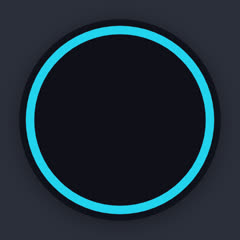
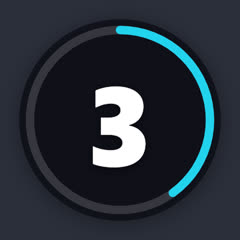
fix(creator-kit): what the live run found; docs
- the Gallery's tab row wraps (the library tabs were out of sight in a narrow pane)
- project.save over MCP copies the project's library LUTs beside it, as File > Save does
- a transition's outgoing clip no longer goes black after the cut when the clip uses its file to
  the last frame (source time clamped a 60th of a second before the end; older than the kit)
- countdown template: thumbnail time; index.json and thumbnails rebuilt
- notes.md (build + live run), goals.md, CHANGELOG, ARCHITECTURE, docs/customizing.md
cargo test: 1417 passed; --selftest OK; the five live checks of the plan pass.

Changed region(s): [[0.0875, 0.0875, 0.7292, 0.9042], [0.3792, 0.35, 0.6125, 0.7]]

diff --git a/src/ui/gallery.rs b/src/ui/gallery.rs
@@ -427,24 +427,22 @@ pub fn show(
     if state.tab == GalleryTab::Transitions {
         state.tab = GalleryTab::Looks;
     }
-    // one row that scrolls sideways when the pane is narrower than the tabs
-    egui::ScrollArea::horizontal().id_salt("gallery_tabs").show(ui, |ui| {
-        ui.horizontal(|ui| {
-            ui.spacing_mut().item_spacing.x = 4.0;
-            for tab in GalleryTab::ALL.into_iter().filter(|&t| t != GalleryTab::Transitions) {
-                if ui.selectable_label(state.lib.is_none() && state.tab == tab, tab.label()).clicked() {
-                    state.tab = tab;
-                    state.lib = None;
-                    settings.gallery_tab = tab.name().to_string();
-                }
+    // the tabs wrap onto a second row in a narrow pane (a sideways-scrolling row hid the library tabs)
+    ui.horizontal_wrapped(|ui| {
+        ui.spacing_mut().item_spacing.x = 4.0;
+        for tab in GalleryTab::ALL.into_iter().filter(|&t| t != GalleryTab::Transitions) {
+            if ui.selectable_label(state.lib.is_none() && state.tab == tab, tab.label()).clicked() {
+                state.tab = tab;
+                state.lib = None;
+                settings.gallery_tab = tab.name().to_string();
             }
-            // ---- ws:online-library ----
-            for (kind, label) in LIB_TABS {
-                if ui.selectable_label(state.lib == Some(kind), label).clicked() {
-                    state.lib = Some(kind);
-                }
+        }
+        // ---- ws:online-library ----
+        for (kind, label) in LIB_TABS {
+            if ui.selectable_label(state.lib == Some(kind), label).clicked() {
+                state.lib = Some(kind);
             }
-        });
+        }
     });
     ui.separator();
     // ---- ws:online-library ---- a library tab, or the library's LUTs above the Luts tab's folders

diff --git a/src/ui/app/tools_timeline.rs b/src/ui/app/tools_timeline.rs
@@ -70,6 +70,11 @@ pub(super) fn dispatch(app: &mut App, name: &str, args: &Value) -> Option<Result
                     None => app.project_path.clone().ok_or("no project file yet - pass a path")?,
                 };
                 app.project.save(&path).map_err(|e| e.to_string())?;
+                // ws:online-library: as File > Save does - library LUTs the project uses go beside it
+                crate::engine::lut::set_project(Some(&path));
+                if let Ok(v) = serde_json::to_value(&app.project) {
+                    let _ = crate::engine::lut::copy_beside_project(&v, &path);
+                }
                 app.project_path = Some(path.clone());
                 app.dirty = false;
                 Ok(json!({"ok": true, "path": path.to_string_lossy()}))

diff --git a/src/playback.rs b/src/playback.rs
@@ -1911,7 +1911,10 @@ fn decode_one(
 /// A source time kept inside the source (`src_duration` 0 = unknown: only kept off negatives).
 fn clip_src(src_t: f64, src_duration: f64) -> f64 {
     if src_duration > 0.0 {
-        src_t.clamp(0.0, (src_duration - 1e-4).max(0.0))
+        // a 60th of a second before the end: a time inside the last 0.1 ms came back with no frame at
+        // all (the outgoing clip of every transition went black after the cut when it used its file
+        // to the last frame). ponytail: the last frame's own time, once the decoders report it.
+        src_t.clamp(0.0, (src_duration - 1.0 / 60.0).max(0.0))
     } else {
         src_t.max(0.0)
     }

diff --git a/notes.md b/notes.md
@@ -7,6 +7,52 @@ Newest at the top. No required format — a bullet or a short paragraph is fine.
 
 ---
 
+- **creator-kit build (2026-11-11): how it was run, what the live run found.**
+  Order: spike (entry below) -> `library/README.md` (formats) -> wave 0 by the lead (marker sections,
+  registered stub modules with the cross-workstream signatures, the installed-library core, shader
+  header parsing + wrappers, a real-driver test over `library/**/*.glsl`; `plans/creator-kit/
+  engine-contract.md` is the shared brief) -> four engine agents in the SAME worktree on disjoint files
+  (html-layer, shader-library, skills, online-library; `cargo check` allowed, others' errors ignored)
+  next to twelve content agents writing only under `library/`. What made the content good: every
+  author could LOOK at its work with the app's own renderer - a preview tool built from the spike for
+  HTML / icons, and the built test binary re-run with `SE_ONLY` / `SE_SHOTS` for shaders (files are read
+  at run time, so the binary need not be rebuilt). Merge: 2 test failures, both from the lead's own
+  integration edits; then `cargo test` 1417 passed, `--selftest` OK.
+  **Live, release-fast, scratch profile, second monitor, over MCP** (all five checks of the plan):
+  (1) `html.create` with the library Subscribe button -> over video with clean alpha at its natural
+  size; `html.set` label + accent -> re-rendered; the exported frame shows it. (2) "Add a lower third
+  with my name": the assistant found `html/lower-third-clean` with `library.list`, installed and
+  applied it, set name / role with `html.set`, looked with `html.check`; 24 s. (3) the `/` list
+  filters as typed, the Skills tab lists built-ins and "Yours"; `/create-skill …` wrote
+  `skills\punch-words.md` in 32 s; `/captions` ran as a skill and stopped to ask before the 142 MB
+  speech model download (not installed in the scratch profile, so captioning itself was not run).
+  (4) a cloud transition clicked in the Gallery (library read from the local `library/` folder) was
+  copied in and applied with a toast; `library.apply` for an effect and a LUT; export matches the
+  preview. (5) the saved project on a clean profile with the first profile's library and cache hidden:
+  the HTML layer re-rendered from the project, the shader effect and transition drew, the LUT came from
+  `kit LUTs\` beside the project (pixel-identical bars).
+  **Found and fixed**: the Gallery's tab row scrolled sideways, hiding the library tabs in a narrow
+  pane (it wraps now); `project.save` over MCP skipped the LUT copy that File > Save does; the outgoing
+  clip of EVERY transition (built-in Push too, so older than the kit) went black after the cut when the
+  clip used its file to the last frame - a source time within 0.1 ms of the end came back with no
+  frame; `playback::clip_src` now clamps a 60th of a second before the end. The countdown template's
+  thumbnail fell on a frame where its digit is mid pop-in (`se:thumb` added).
+  **Gotchas**: launching with a FILE ARGUMENT starts as a full-screen player that plays at once - a test
+  window then "goes black" over the gaps of the timeline and `layout.list` shows no pane rects: use
+  `project.open` after launch, or `ui.action fullscreen`. A test profile that is not reset saves its
+  window rect as the OUTER size, so the window grows 16x39 px per relaunch. Python heredocs in the agent
+  shell eat backslashes (`\\n` in a patch became a real newline): write patch scripts to a file. Two
+  shader authors overwrote each other's helper script in the shared scratch folder: give each agent its
+  own folder. Disk D: fell to 4 GB during the build (one debug + one release-fast target).
+  **Not done / ceilings**: `.mogrt` import (needs sample files); nothing fetched over the network yet
+  (the catalogue URL is `main`, where `library/` is not yet); `html.check` blocks the UI thread while it
+  renders (0.1-0.3 s warm, +1.3 s when Edge has to start); one Edge, one render at a time; an export
+  started while an HTML layer is still rendering is stopped with a toast; library transitions show a
+  plain dissolve card in the Transitions pane (the Gallery has the real thumbnails); `thumbs.rs` still
+  lists `lut_dirs` every frame the Looks / Luts tab is open; no hover preview for library items; QSV /
+  the Codex backend etc. are as untested as before. **Size**: release-fast exe 13,129,216 B before the
+  kit -> 13,880,320 B (+751,104 B, +0.72 MB), above the plan's 0.2-0.4 MB estimate.
+
 - **creator-kit spike (2026-11-11): headless Edge can step CSS animations exactly, with alpha. Go.**
   Edge 157, RTX 2060 SUPER, machine in normal use. A std-only throwaway program (TcpStream WebSocket
   client, serde_json) started `msedge.exe --headless --remote-debugging-port=0 --user-data-dir=<temp>

diff --git a/docs/customizing.md b/docs/customizing.md
@@ -90,6 +90,31 @@ curl -s -d '{"jsonrpc":"2.0","id":1,"method":"tools/list"}' -H 'content-type: ap
 > wait for the user's Allow (`ui/app/assistant_ctl.rs`, `leaves_project`). The Assistant redesign added
 > `assistant.add_selection`, `assistant.attachments`, `assistant.attachment` and the five `tasks.*` tools
 > (also from the source, not a live call).
+
+> **Creator Kit (2026-11-11, from a live `tools/list`: 295 tools).** `skills.save` and `skills.delete`
+> are also held for the user's Allow. `library.*` below is the CONTENT library (transitions, effects,
+> LUTs, HTML templates, icons, skills); `library.select` / `library.columns` are the media library panel.
+
+| Tool | Kind | Arguments | What it does |
+|---|---|---|---|
+| `html.create` | Mutate | html, at?, duration?, name?, fields? | Add an HTML + CSS layer or scene clip (format: `library/README.md`); rendered in the background. `fields` is an object `{name: value}`. |
+| `html.get` | Read | clip | The clip's source, fields with current values, size, duration, render state, lint. |
+| `html.set` | Mutate | clip, html?, fields?, name? | Replace the source and/or set field values (`null` = default); the clip keeps position, effects and keyframes. |
+| `html.render` | Read | clip | Render again when the current source has no render (also retries a failed one). |
+| `html.check` | Read (image) | clip? \| html?, t?, fields? | One rendered frame as an image, plus lint. |
+| `clip.set_shader` | Mutate | clip, index?, src | Set a clip's shader effect source; returns `{ok, log, params}` (a compile error is a result, not a failure). |
+| `shader.check` | Read | src, kind? | Compile an effect or transition shader without changing anything. |
+| `transition.set_shader` | Mutate | id? \| clip?, src, params? | Make a transition a shader transition (gl-transitions format). |
+| `skills.list` | Read | - | Assistant skills: name, description, args, source. |
+| `skills.get` | Read | name | One skill's text and parsed parts. |
+| `skills.save` | Ui (held) | name, description, args?, body | Write a skill into the user's skills folder. |
+| `skills.delete` | Ui (held) | name | Delete a user skill. |
+| `library.list` | Read | kind?, query? | Installed and online items, each with `installed`; `catalogue` is `loading`, `ok` or a note. |
+| `library.install` | Job | id | Download an item (`transitions/paper-tear`). |
+| `library.apply` | Mutate | id, clip?, at? | Install if needed, then use it: transition on a cut, effect / LUT on a clip, HTML / icon as a new clip. |
+| `library.save` | Ui | kind, name, text | Save a shader, HTML layer, skill or `.cube` text as a library item (checked first). |
+| `library.remove` | Ui | id | Remove an installed item. |
+
 `kind` isn't part of the wire response (`mcp::tools::list_json` only serialises
 `name`/`description`/`inputSchema` — see `src/mcp/tools.rs`), so the `Kind` column below is a source
 cross-reference (each tool's own `ToolDef.kind` in its `tools_*.rs` file), not something you'll see

diff --git a/ARCHITECTURE.md b/ARCHITECTURE.md
@@ -115,6 +115,20 @@ src/engine/stems.rs     export stems: by track / bus / AudioRole, each a project
 src/engine/agent.rs     Assistant backends: `claude -p --output-format stream-json` (prompt on stdin)
                         or a custom argv template; API key in Windows Credential Manager
 src/engine/voice.rs     push-to-talk: cpal input on its own thread -> 16 kHz mono WAV -> whisper
+# (Creator Kit, 2026-11-11: built, tested, live-checked - plans/creator-kit/, library/README.md):
+src/engine/html.rs      HTML + CSS layers: template parsing (se: meta tags, {{fields}}), sanitising, lint,
+                        and the renderer - one headless Edge driven over DevTools by a std-only WebSocket
+                        client; frames as PNG-in-MOV (alpha) in cache_dir/html, content-addressed
+src/engine/shaderlib.rs shader file headers (@name/@desc/@tags/@param/@needs) for effects and transitions
+src/engine/skills.rs    assistant skills: Markdown with a --- header; user folder, library, built-ins
+src/engine/library.rs   the content library: installed items in %APPDATA%\SimpleEditor\library, the
+                        index.json catalogue (local folder or curl.exe), fetch / install
+src/engine/gpu/library_tests.rs  every library shader compiled and drawn on the real driver
+src/ui/html_ui.rs       HTML editor window; Inspector "Fields" controls
+src/ui/app/html_ctl.rs  render jobs, asset re-pointing, Add HTML Layer / Scene, add_html_clip
+src/ui/app/library_ctl.rs  catalogue / download jobs, apply by kind, Gallery library tabs' App side
+src/ui/app/tools_{html,shader,skills,library}.rs  html.*, clip.set_shader / shader.check /
+                        transition.set_shader, skills.*, library.*
 
 src/playback.rs         Player: render thread + audio thread + wall clock; decode_layers()/
                         request_layers() for the GPU (see "Alt-render channel" below); Clock.rate/

diff --git a/CHANGELOG.md b/CHANGELOG.md
@@ -2,6 +2,22 @@
 
 ## Unreleased
 
+### Creator Kit
+- **HTML + CSS layers and scenes** (Add ▸ HTML Layer / HTML Scene): titles, lower thirds, buttons and
+  cards written in HTML and CSS (no JavaScript), rendered by the Microsoft Edge that ships with Windows,
+  with transparency, and exported with the video. A template's texts and colours show as **Fields** in
+  the Inspector; double-click the clip for the HTML editor (live preview, scrub bar, Ask the assistant).
+- **Shader transitions** in the gl-transitions format and **shader effects** with named controls
+  (`// @param glow 0.5 0 2`), added without rebuilding the app. The Shader Editor can save to the library.
+- **Online library** in the Gallery (Transitions, Effects, LUTs, HTML, Icons, Skills): 40 transitions,
+  40 effects, 30 LUTs, 36 HTML layers and scenes, 40 icons and 21 skills. Items with a cloud mark download
+  on first click; what a project uses is stored in the project (LUTs are copied into a folder beside it).
+- **Assistant skills**: type `/` in the chat or the Tasks box (`/captions bold yellow`, `/lower-third`,
+  `/shorts`, `/create-skill …`); a Skills tab to run, edit, duplicate and write your own. Skills are
+  Markdown files in `%APPDATA%\SimpleEditor\skills`. Quick prompts you wrote yourself become skills.
+- MCP: `html.*`, `clip.set_shader`, `shader.check`, `transition.set_shader`, `skills.*`, `library.*`.
+- Fixed: the outgoing clip of a transition went black after the cut when it used its file to the last frame.
+
 The Pro plan's first coding pass. Not built or tested yet: everything below is what the code is written
 to do.
 

diff --git a/goals.md b/goals.md
@@ -101,6 +101,14 @@ Pulled forward from CHANGELOG.md — mark new completions here as they land.
 
 ## In progress / open
 
+- [ ] **Creator Kit** - HTML + CSS layers, assistant skills, shader effects / transitions from files, the
+  online library with its first content set; planned and built 2026-11-11 on `feat/pro`
+  ([plans/creator-kit/README.md](plans/creator-kit/README.md), formats in `library/README.md`). Built,
+  tested and live-checked (notes.md, "creator-kit build"). Open: `.mogrt` limited import (needs sample
+  files), `library/` reaching `main` (the catalogue URL points there), per-item looks review from the
+  contact sheet. **Size: the kit added about 0.73 MB of exe (release-fast, measured), above the plan's
+  0.2-0.4 MB estimate - a size decision for the maintainer, recorded here, not yet offset.**
+
 - [ ] **Pro plan** — fast playback, fast export, separate audio tracks, live co-editing; planned
   2026-11-10 in [plans/pro/README.md](plans/pro/README.md) (issues #140-#153, one issue-ready file
   per workstream under `plans/pro/issues/`). Size budget, decided once for the whole plan:
